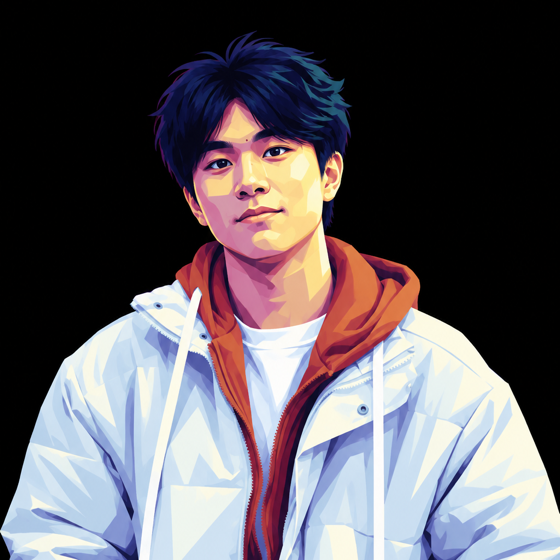
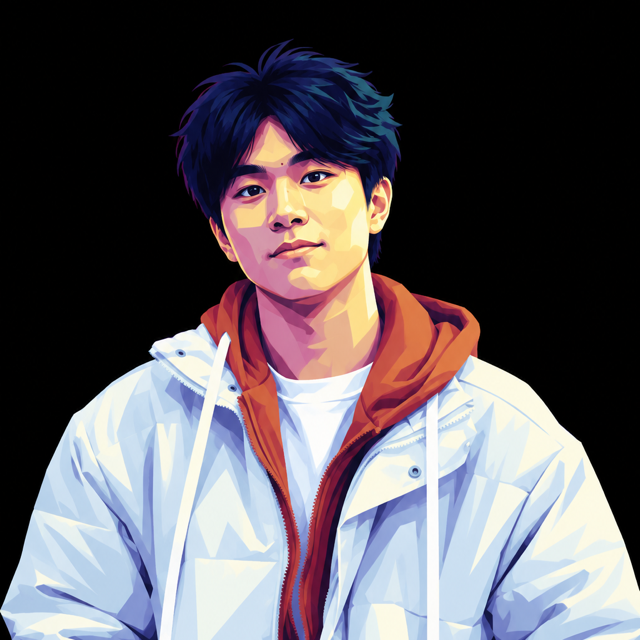
fix(site): shrink photos to thumbnail scale, life photos become auto-scrolling draggable filmstrip
- life section redesigned: single-row filmstrip that auto-scrolls right in a seamless loop; pauses on hover and while lightbox is open; pointer-drag to browse; click still opens the lightbox; soft edge fading
- Alibaba team photo: modest 220px column inside the xp-card (matches the old About-photo scale) with caption below
- WWDC23 prize strip: tiles reduced to ~150px tall thumbnails
- avatar: re-cropped 640×640 for better framing; removed its click-to-enlarge (decorative, avoids giant blurry square)
- lightbox switched to event delegation so cloned filmstrip cards work

diff --git a/index.html b/index.html
@@ -35,9 +35,7 @@
   <div class="layout" id="top">
     <!-- ==================== LEFT SIDEBAR ==================== -->
     <aside class="sidebar">
-      <button class="lb side-photo-trigger" data-full="assets/avatar.png" data-caption="Illustrated avatar — winter 2026" aria-label="Enlarge avatar">
-        <img class="side-photo" src="assets/avatar.png" alt="Chenshuhao (Cody) Qin — illustrated avatar" width="560" height="560">
-      </button>
+      <img class="side-photo" src="assets/avatar.png" alt="Chenshuhao (Cody) Qin — illustrated avatar" width="640" height="640">
       <h1 class="side-name">Chenshuhao (Cody) Qin</h1>
       <p class="side-cn">秦陈书豪 <span class="pron">/ CHIN-CHEN-SHOO-HOW /</span></p>
       <p class="side-credential">MS, Computer Science · USC ’27<br>Duke / DKU ’25</p>
@@ -141,7 +139,8 @@
       <section id="experience" class="sec">
         <h2 class="sec-title">Experience</h2>
 
-        <article class="xp-card reveal">
+        <article class="xp-card reveal has-photo">
+          <div class="xp-main">
           <div class="xp-head">
             <span class="logo-chip"><img src="assets/logos/alibaba.jpg" alt="Alibaba Cloud" loading="lazy"></span>
             <div class="xp-titles">
@@ -158,12 +157,13 @@
             <li>Contributed <strong>5 merged PRs</strong> to the 7k★ Data-Juicer ecosystem (see <a href="#opensource">Open Source</a>).</li>
           </ul>
           <div class="chips"><span>Agent Harness</span><span>Context Engineering</span><span>Python</span><span>Ray</span><span>Kubernetes</span><span>Docker</span><span>FastAPI</span><span>React</span><span>MySQL</span><span>AgentScope</span><span>Data-Juicer</span></div>
-          <div class="xp-photos">
-            <button class="lb xp-photo" data-full="assets/alibaba-photo.png" data-caption="Team photo · Alibaba Cloud, Hangzhou · 2026">
-              <img src="assets/alibaba-photo.png" alt="Team photo at Alibaba Cloud, Hangzhou, 2026" loading="lazy">
-              <span class="xp-photo-cap">Team photo · Hangzhou · 2026 <em>— click to enlarge</em></span>
-            </button>
           </div>
+          <figure class="xp-fig">
+            <button class="lb" data-full="assets/alibaba-photo.png" data-caption="Team photo · Alibaba Cloud, Hangzhou · 2026" aria-label="Enlarge team photo">
+              <img src="assets/alibaba-photo.png" alt="Team photo at Alibaba Cloud, Hangzhou, 2026" loading="lazy">
+            </button>
+            <figcaption>Team photo · Hangzhou · 2026</figcaption>
+          </figure>
         </article>
 
         <article class="xp-card reveal">
@@ -403,33 +403,37 @@
 
       <!-- ============ LIFE ============ -->
       <section id="life" class="sec">
-        <h2 class="sec-title">Beyond the Code <span class="title-note">· click any photo to enlarge</span></h2>
+        <h2 class="sec-title">Beyond the Code <span class="title-note">· hover to pause · drag to browse · click to enlarge</span></h2>
         <p class="life-intro">The background processes — Formula 1, a guitar, one very photogenic chapel, and proof that the car obsession started early.</p>
-        <div class="life-grid">
-          <button class="lb life-tile tall" data-full="assets/life/duke-chapel.jpg" data-caption="Duke Chapel · Durham, NC — the nave">
-            <img src="assets/life/duke-chapel.jpg" alt="Standing in the nave of Duke Chapel" loading="lazy">
-            <span class="life-cap"><strong>Duke Chapel · Durham, NC</strong><em>My favorite corridor on any campus — gothic, quiet, notification-free.</em></span>
-          </button>
-          <button class="lb life-tile wide" data-full="assets/life/f1-shanghai.jpg" data-caption="Formula 1 Chinese Grand Prix · Shanghai International Circuit">
-            <img src="assets/life/f1-shanghai.jpg" alt="Formula 1 Chinese Grand Prix in Shanghai" loading="lazy">
-            <span class="life-cap"><strong>F1 Chinese Grand Prix · Shanghai</strong><em>Certified Tifosi — attendance verified, voice lost.</em></span>
-          </button>
-          <button class="lb life-tile tall" data-full="assets/life/music-stage.jpg" data-caption="On stage at a music festival — guitar &amp; vocals">
-            <img src="assets/life/music-stage.jpg" alt="Performing guitar on stage at a music festival" loading="lazy">
-            <span class="life-cap"><strong>Music festival · on stage</strong><em>Guitar &amp; vocals — my favorite kind of live deployment.</em></span>
-          </button>
-          <button class="lb life-tile wide" data-full="assets/life/graduation.jpg" data-caption="Undergraduate graduation · Duke Kunshan University, Class of 2025">
-            <img src="assets/life/graduation.jpg" alt="Undergraduate graduation photo" loading="lazy">
-            <span class="life-cap"><strong>Class of 2025 · DKU × Duke</strong><em>v25.0 shipped — dual degree, four years in production.</em></span>
-          </button>
-          <button class="lb life-tile wide pos-b" data-full="assets/life/childhood-jeep.jpg" data-caption="First test drive — plastic jeep, plaza circuit">
-            <img src="assets/life/childhood-jeep.jpg" alt="Childhood photo driving a toy jeep" loading="lazy">
-            <span class="life-cap"><strong>The first test drive</strong><em>Plaza circuit, plastic jeep, top speed 0.5 km/h.</em></span>
-          </button>
-          <button class="lb life-tile wide pos-b" data-full="assets/life/childhood-fleet.jpg" data-caption="The original fleet — my childhood car collection">
-            <img src="assets/life/childhood-fleet.jpg" alt="Childhood photo with toy car collection" loading="lazy">
-            <span class="life-cap"><strong>The original fleet</strong><em>Before distributed clusters, I orchestrated toy ones.</em></span>
-          </button>
+        <div class="reel" id="lifeReel" aria-label="Life photos filmstrip">
+          <div class="reel-track">
+            <div class="reel-set">
+              <button class="lb reel-card" data-full="assets/life/duke-chapel.jpg" data-caption="Duke Chapel · Durham, NC — the nave">
+                <img src="assets/life/duke-chapel.jpg" alt="Standing in the nave of Duke Chapel" loading="lazy">
+                <span class="reel-cap"><strong>Duke Chapel · Durham, NC</strong><em>Gothic, quiet, notification-free.</em></span>
+              </button>
+              <button class="lb reel-card" data-full="assets/life/f1-shanghai.jpg" data-caption="Formula 1 Chinese Grand Prix · Shanghai International Circuit">
+                <img src="assets/life/f1-shanghai.jpg" alt="Formula 1 Chinese Grand Prix in Shanghai" loading="lazy">
+                <span class="reel-cap"><strong>F1 Chinese Grand Prix</strong><em>Certified Tifosi — voice lost.</em></span>
+              </button>
+              <button class="lb reel-card" data-full="assets/life/music-stage.jpg" data-caption="On stage at a music festival — guitar &amp; vocals">
+                <img src="assets/life/music-stage.jpg" alt="Performing guitar on stage at a music festival" loading="lazy">
+                <span class="reel-cap"><strong>Music festival · on stage</strong><em>My favorite live deployment.</em></span>
+              </button>
+              <button class="lb reel-card" data-full="assets/life/graduation.jpg" data-caption="Undergraduate graduation · Duke Kunshan University, Class of 2025">
+                <img src="assets/life/graduation.jpg" alt="Undergraduate graduation photo" loading="lazy">
+                <span class="reel-cap"><strong>Class of 2025 · DKU × Duke</strong><em>v25.0 — dual degree, shipped.</em></span>
+              </button>
+              <button class="lb reel-card" data-full="assets/life/childhood-jeep.jpg" data-caption="First test drive — plastic jeep, plaza circuit">
+                <img src="assets/life/childhood-jeep.jpg" alt="Childhood photo driving a toy jeep" loading="lazy">
+                <span class="reel-cap"><strong>The first test drive</strong><em>Top speed 0.5 km/h.</em></span>
+              </button>
+              <button class="lb reel-card" data-full="assets/life/childhood-fleet.jpg" data-caption="The original fleet — my childhood car collection">
+                <img src="assets/life/childhood-fleet.jpg" alt="Childhood photo with toy car collection" loading="lazy">
+                <span class="reel-cap"><strong>The original fleet</strong><em>Pre-Kubernetes orchestration.</em></span>
+              </button>
+            </div>
+          </div>
         </div>
       </section>
 

diff --git a/style.css b/style.css
@@ -100,9 +100,6 @@ img { max-width: 100%; display: block; }
   width: 100%; aspect-ratio: 1; object-fit: cover;
   border-radius: 24px; border: 1px solid var(--border); box-shadow: var(--shadow);
 }
-.side-photo-trigger { display: block; padding: 0; border: 0; background: none; cursor: zoom-in; width: 100%; }
-.side-photo-trigger .side-photo { transition: transform .2s ease; }
-.side-photo-trigger:hover .side-photo { transform: scale(1.015); }
 .side-name { font-family: var(--font-display); font-size: 24px; font-weight: 600; margin: 18px 0 2px; line-height: 1.25; letter-spacing: -.01em; }
 .side-cn { font-size: 15px; color: var(--text); font-weight: 600; margin: 0 0 12px; }
 .side-cn .pron { font-size: 11.5px; color: var(--text-faint); font-weight: 500; margin-left: 6px; letter-spacing: .03em; }
@@ -171,6 +168,12 @@ img { max-width: 100%; display: block; }
   border-radius: var(--radius); padding: 20px 22px; margin-bottom: 14px;
   box-shadow: var(--shadow);
 }
+.xp-card.has-photo { display: grid; grid-template-columns: minmax(0, 1fr) 220px; gap: 20px; align-items: center; }
+.xp-fig { margin: 0; text-align: center; }
+.xp-fig button.lb { display: block; padding: 0; border: 1px solid var(--border); border-radius: 12px; overflow: hidden; background: var(--bg-subtle); }
+.xp-fig img { display: block; width: 100%; height: auto; transition: transform .25s ease; }
+.xp-fig button.lb:hover img { transform: scale(1.03); }
+.xp-fig figcaption { font-size: 12px; color: var(--text-faint); margin-top: 6px; }
 .xp-head { display: flex; gap: 14px; align-items: flex-start; }
 .xp-titles h3 { margin: 0; font-size: 16px; font-weight: 650; }
 .xp-org { color: var(--text-soft); font-size: 13.5px; margin-top: 2px; }
@@ -296,51 +299,40 @@ img { max-width: 100%; display: block; }
   position: relative; overflow: hidden; padding: 0; border: 1px solid var(--border);
   border-radius: 10px; background: var(--bg-subtle); cursor: zoom-in;
 }
-.wwdc-tile img { width: 100%; height: 200px; object-fit: cover; transition: transform .25s ease; }
+.wwdc-tile img { width: 100%; height: 150px; object-fit: cover; transition: transform .25s ease; }
 .wwdc-tile:hover img { transform: scale(1.03); }
 .tile-cap {
   position: absolute; left: 0; right: 0; bottom: 0;
-  padding: 22px 10px 8px; font-size: 11.5px; font-weight: 600; color: #fff; text-align: left;
+  padding: 20px 9px 7px; font-size: 11px; font-weight: 600; color: #fff; text-align: left;
   background: linear-gradient(transparent, rgba(0,0,0,.62));
 }
 
-/* ---- Photo strip inside experience cards ---- */
-.xp-photos { display: grid; gap: 10px; margin-top: 14px; }
-.xp-photo {
-  position: relative; overflow: hidden; padding: 0; border: 1px solid var(--border);
-  border-radius: 10px; background: var(--bg-subtle); cursor: zoom-in;
-}
-.xp-photo img { width: 100%; height: 210px; object-fit: cover; transition: transform .25s ease; }
-.xp-photo:hover img { transform: scale(1.02); }
-.xp-photo-cap {
-  position: absolute; left: 0; right: 0; bottom: 0;
-  padding: 24px 12px 9px; font-size: 12px; font-weight: 600; color: #fff; text-align: left;
-  background: linear-gradient(transparent, rgba(0,0,0,.62));
-}
-.xp-photo-cap em { font-weight: 400; opacity: .85; }
-
-/* ---- Life / Beyond the Code mosaic ---- */
+/* ---- Life filmstrip (auto-scrolling, draggable) ---- */
 .life-intro {
-  margin: -6px 0 18px; color: var(--text-soft); font-size: 14px;
+  margin: -6px 0 16px; color: var(--text-soft); font-size: 14px;
   font-family: var(--font-display); font-style: italic;
 }
-.life-grid { display: grid; grid-template-columns: repeat(4, 1fr); grid-auto-rows: 232px; gap: 12px; }
-.life-tile {
-  position: relative; overflow: hidden; padding: 0; border: 1px solid var(--border);
+.reel {
+  overflow: hidden; padding: 4px 0 6px;
+  -webkit-mask-image: linear-gradient(90deg, transparent, #000 5%, #000 95%, transparent);
+  mask-image: linear-gradient(90deg, transparent, #000 5%, #000 95%, transparent);
+}
+.reel-track { display: flex; width: max-content; will-change: transform; touch-action: pan-y; cursor: grab; }
+.reel-track.dragging { cursor: grabbing; }
+.reel-set { display: flex; gap: 14px; padding-right: 14px; }
+.reel-card {
+  position: relative; overflow: hidden; flex: none; padding: 0; border: 1px solid var(--border);
   border-radius: 12px; background: var(--bg-subtle); cursor: zoom-in;
 }
-.life-tile img { width: 100%; height: 100%; object-fit: cover; transition: transform .3s ease; }
-.life-tile:hover img { transform: scale(1.035); }
-.life-tile.tall { grid-row: span 2; }
-.life-tile.wide { grid-column: span 2; }
-.life-tile.pos-b img { object-position: center 72%; }
-.life-cap {
-  position: absolute; left: 0; right: 0; bottom: 0; display: flex; flex-direction: column; gap: 1px;
-  padding: 30px 13px 10px; text-align: left; color: #fff;
-  background: linear-gradient(transparent, rgba(0,0,0,.66));
+.reel-card img { display: block; height: 216px; width: auto; pointer-events: none; transition: transform .3s ease; }
+.reel-card:hover img { transform: scale(1.03); }
+.reel-cap {
+  position: absolute; left: 0; right: 0; bottom: 0; display: flex; flex-direction: column; gap: 0;
+  padding: 26px 11px 8px; text-align: left; color: #fff; pointer-events: none;
+  background: linear-gradient(transparent, rgba(0,0,0,.68));
 }
-.life-cap strong { font-size: 12.5px; font-weight: 650; letter-spacing: .01em; }
-.life-cap em { font-size: 11.5px; font-weight: 400; color: rgba(255,255,255,.88); font-family: var(--font-display); }
+.reel-cap strong { font-size: 12px; font-weight: 650; white-space: nowrap; overflow: hidden; text-overflow: ellipsis; }
+.reel-cap em { font-size: 11px; font-weight: 400; color: rgba(255,255,255,.88); font-family: var(--font-display); white-space: nowrap; overflow: hidden; text-overflow: ellipsis; }
 
 /* ---- Lightbox ---- */
 button.lb, a.lb { cursor: zoom-in; }
@@ -445,14 +437,14 @@ button.lb { background: none; border: 0; padding: 0; }
   .xp-when { margin-left: 58px; text-align: left; white-space: normal; }
   .nav-links { display: none; }
   .wwdc-strip { grid-template-columns: 1fr 1fr; }
-  .wwdc-tile img { height: 170px; }
-  .life-grid { grid-template-columns: 1fr 1fr; grid-auto-rows: 205px; }
-  .life-tile.wide { grid-column: span 1; }
-  .life-tile.tall { grid-row: span 2; }
-  .xp-photo img { height: 175px; }
+  .wwdc-tile img { height: 150px; }
+  .xp-card.has-photo { grid-template-columns: 1fr; }
+  .xp-fig { max-width: 300px; margin: 4px auto 0; }
+  .reel-card img { height: 190px; }
 }
 @media (max-width: 560px) {
-  .life-grid { grid-template-columns: 1fr; grid-auto-rows: 235px; }
-  .life-cap em { display: none; }
+  .reel-card img { height: 168px; }
+  .reel-cap em { display: none; }
+  .reel-cap strong { font-size: 11.5px; }
   .lightbox figcaption { font-size: 12px; padding: 0 12px; }
 }

diff --git a/main.js b/main.js
@@ -65,10 +65,8 @@
 
 // Lightbox: every .lb element (button or link) opens an enlargable overlay
 // with keyboard + prev/next navigation across all .lb items on the page.
+// Uses event delegation so elements added later (filmstrip clones) work too.
 (function () {
-  const items = [...document.querySelectorAll(".lb")];
-  if (!items.length) return;
-
   const box = document.createElement("div");
   box.className = "lightbox";
   box.setAttribute("role", "dialog");
@@ -83,8 +81,7 @@
 
   const img = box.querySelector("img");
   const cap = box.querySelector("figcaption");
-  const prevBtn = box.querySelector(".lb-prev");
-  const nextBtn = box.querySelector(".lb-next");
+  const items = () => [...document.querySelectorAll(".lb")];
   let cur = -1;
 
   const src = (t) => t.dataset.full || t.getAttribute("href");
@@ -92,30 +89,33 @@
     (t.querySelector("img") && t.querySelector("img").alt) || t.dataset.caption || "";
 
   function show(i) {
-    cur = ((i % items.length) + items.length) % items.length;
-    const t = items[cur];
+    const list = items();
+    cur = ((i % list.length) + list.length) % list.length;
+    const t = list[cur];
     img.src = src(t);
     img.alt = alt(t);
     cap.textContent = t.dataset.caption || "";
     box.classList.add("open");
+    document.documentElement.classList.add("lb-open");
     document.body.style.overflow = "hidden";
     box.querySelector(".lb-close").focus();
   }
   function close() {
     box.classList.remove("open");
+    document.documentElement.classList.remove("lb-open");
     img.src = "";
     document.body.style.overflow = "";
   }
 
-  items.forEach((t, i) =>
-    t.addEventListener("click", (e) => {
-      e.preventDefault();
-      show(i);
-    })
-  );
+  document.addEventListener("click", (e) => {
+    const t = e.target.closest(".lb");
+    if (!t) return;
+    e.preventDefault();
+    show(items().indexOf(t));
+  });
   box.querySelector(".lb-close").addEventListener("click", close);
-  prevBtn.addEventListener("click", () => show(cur - 1));
-  nextBtn.addEventListener("click", () => show(cur + 1));
+  box.querySelector(".lb-prev").addEventListener("click", () => show(cur - 1));
+  box.querySelector(".lb-next").addEventListener("click", () => show(cur + 1));
   box.addEventListener("click", (e) => {
     if (e.target === box) close();
   });
@@ -125,4 +125,91 @@
     else if (e.key === "ArrowLeft") show(cur - 1);
     else if (e.key === "ArrowRight") show(cur + 1);
   });
+})();
+
+// Life filmstrip: auto-scrolls to the right in a seamless loop, pauses on
+// hover and while the lightbox is open, and can be dragged to browse.
+(function () {
+  const reel = document.getElementById("lifeReel");
+  if (!reel) return;
+  const track = reel.querySelector(".reel-track");
+  const set = reel.querySelector(".reel-set");
+  if (!track || !set) return;
+
+  // duplicate the set for a seamless loop; clones stay out of tab order
+  const clone = set.cloneNode(true);
+  clone.setAttribute("aria-hidden", "true");
+  clone.querySelectorAll("button").forEach((b) => b.setAttribute("tabindex", "-1"));
+  track.appendChild(clone);
+
+  const reduce = window.matchMedia("(prefers-reduced-motion: reduce)").matches;
+  const speed = 0.5; // px per frame (~30px/s)
+  let setW = 0, x = 0, paused = false, dragging = false;
+  let startX = 0, startOffset = 0, moved = 0;
+
+  const measure = () => {
+    setW = set.getBoundingClientRect().width;
+    x = wrap(x);
+    render();
+  };
+  const wrap = (v) => {
+    if (!setW) return v;
+    while (v > 0) v -= setW;
+    while (v <= -setW) v += setW;
+    return v;
+  };
+  const render = () => { track.style.transform = "translate3d(" + x + "px,0,0)"; };
+
+  // x lives in (-setW, 0]: the duplicate set feeds in from the left as the
+  // track travels right, so the loop never shows an empty edge.
+  const init = () => { setW = set.getBoundingClientRect().width; x = -setW; render(); };
+  if (document.readyState === "complete") init();
+  else window.addEventListener("load", init);
+  set.querySelectorAll("img").forEach((im) => {
+    if (!im.complete) im.addEventListener("load", init, { once: true });
+  });
+  window.addEventListener("resize", measure);
+
+  const blocked = () =>
+    dragging || paused || reduce ||
+    document.documentElement.classList.contains("lb-open");
+
+  (function tick() {
+    if (!blocked()) { x = wrap(x + speed); render(); }
+    requestAnimationFrame(tick);
+  })();
+
+  reel.addEventListener("mouseenter", () => { paused = true; });
+  reel.addEventListener("mouseleave", () => { paused = false; });
+
+  track.addEventListener("pointerdown", (e) => {
+    dragging = true; moved = 0;
+    startX = e.clientX; startOffset = x;
+    track.classList.add("dragging");
+    try { track.setPointerCapture(e.pointerId); } catch (_) {}
+  });
+  track.addEventListener("pointermove", (e) => {
+    if (!dragging) return;
+    const dx = e.clientX - startX;
+    moved = Math.max(moved, Math.abs(dx));
+    x = wrap(startOffset + dx);
+    render();
+  });
+  const endDrag = (e) => {
+    if (!dragging) return;
+    dragging = false;
+    track.classList.remove("dragging");
+    try { track.releasePointerCapture(e.pointerId); } catch (_) {}
+  };
+  track.addEventListener("pointerup", endDrag);
+  track.addEventListener("pointercancel", endDrag);
+
+  // a drag should not end up as a click on a photo
+  reel.addEventListener("click", (e) => {
+    if (moved > 6) {
+      e.stopPropagation();
+      e.preventDefault();
+      moved = 0;
+    }
+  }, true);
 })();
